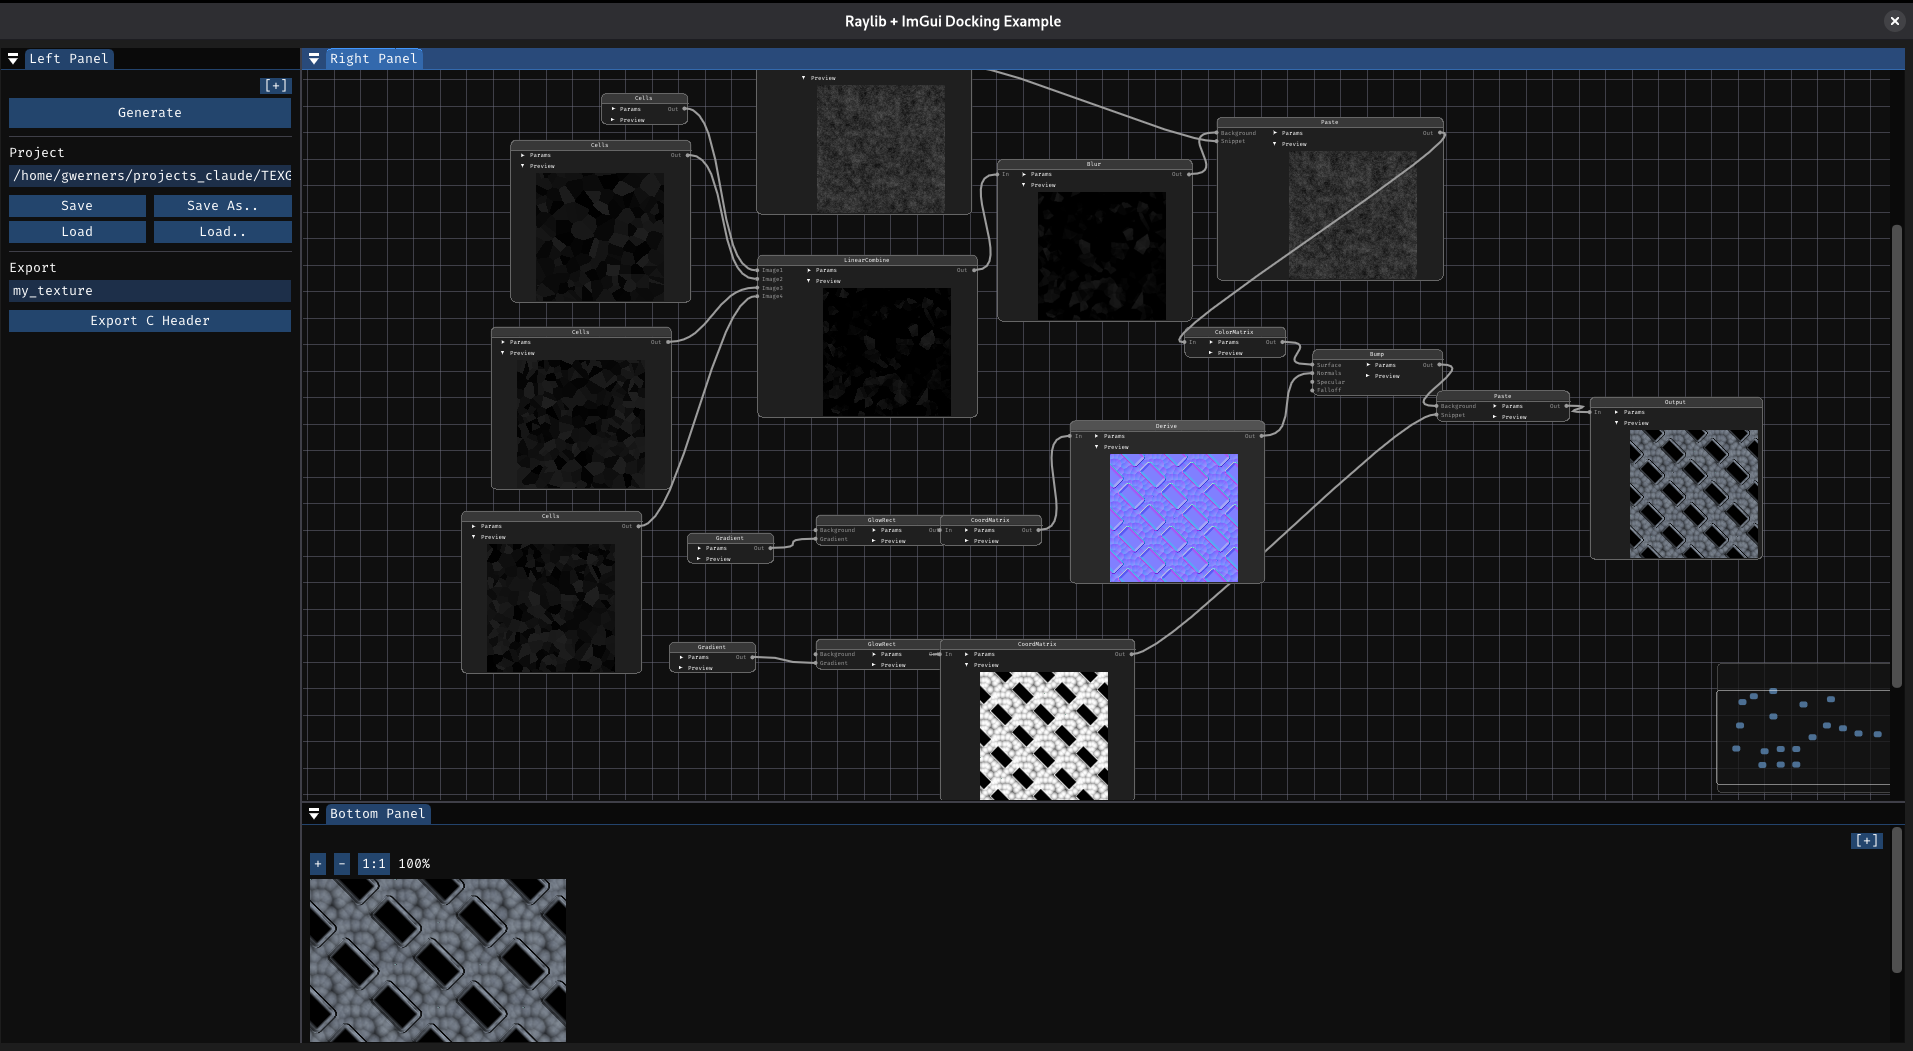
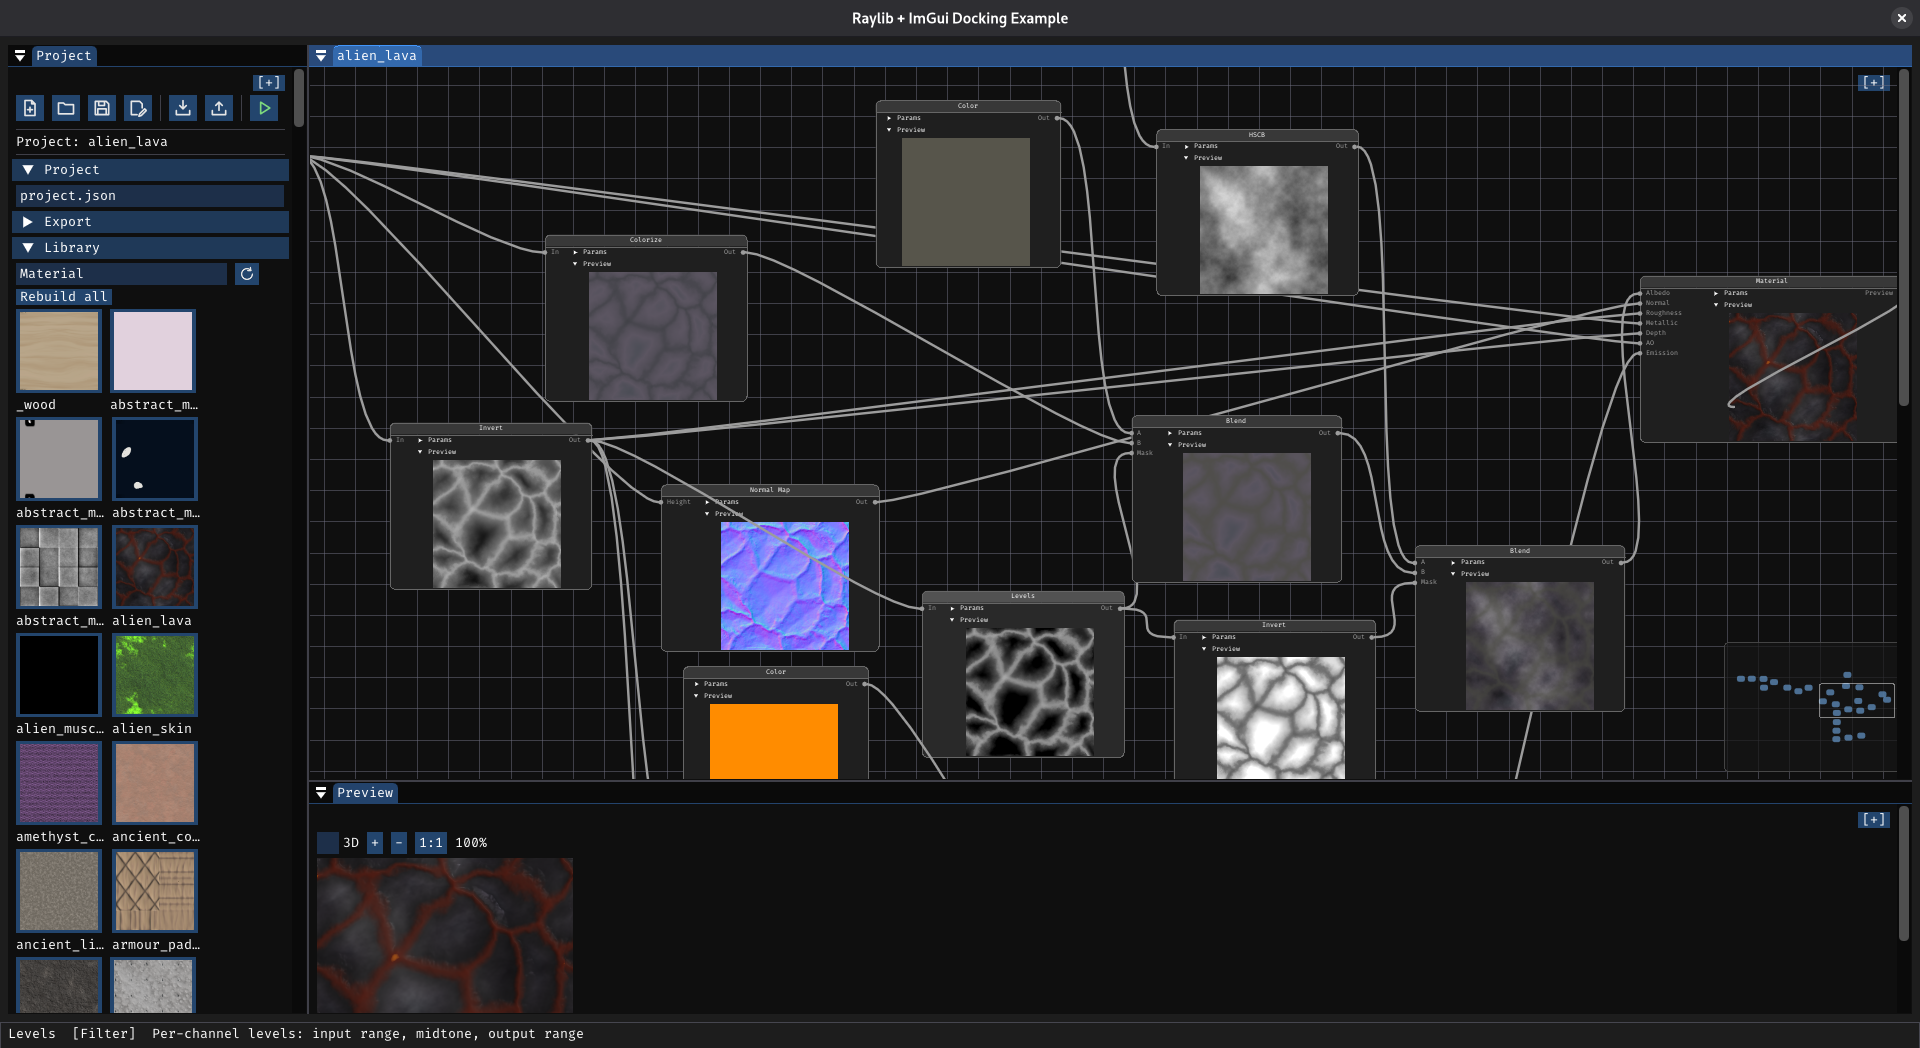
last adjustments

diff --git a/work/AggNodes.cpp b/work/AggNodes.cpp
@@ -1,7 +1,7 @@
 #include "AggNodes.h"
 #include <imgui.h>
-#include "UiWidgets.h"
 #include <cstring>
+#include "UiWidgets.h"
 
 static const char* s_blendModes =
     "Over\0Add\0Sub\0Multiply\0Min\0Max\0Composite\0MulColor\0Screen\0"
@@ -12,8 +12,6 @@ static const char* s_sizesStr = "32\00064\000128\000256\000512\0001024\000";
 static void renderBlendCombo(const char* id, int* blendMode) {
   ImGui::Combo(id, blendMode, s_blendModes);
 }
-
-
 
 // ============================================================
 // AggLineNode

diff --git a/work/AllNodes.cpp b/work/AllNodes.cpp
@@ -1,13 +1,11 @@
 #include "AllNodes.h"
 #include <imgui.h>
-#include "UiWidgets.h"
 #include <cstring>
 #include "FileDialog.h"
+#include "UiWidgets.h"
 #include "Utils.h"
 
 static const char* s_sizesStr = "32\00064\000128\000256\000512\0001024\000";
-
-
 
 // ============================================================
 // ColorNode

diff --git a/work/MMNodes.cpp b/work/MMNodes.cpp
@@ -8,9 +8,6 @@
 
 static const char* s_sizesStr = "32\00064\000128\000256\000512\0001024\000";
 
-
-
-
 // ============================================================
 // VoronoiNode
 // ============================================================

diff --git a/work/StructNodes.cpp b/work/StructNodes.cpp
@@ -1,8 +1,7 @@
 #include "StructNodes.h"
 #include <imgui.h>
-#include "UiWidgets.h"
 #include <cstring>
-
+#include "UiWidgets.h"
 
 // ============================================================
 // SubgraphNode